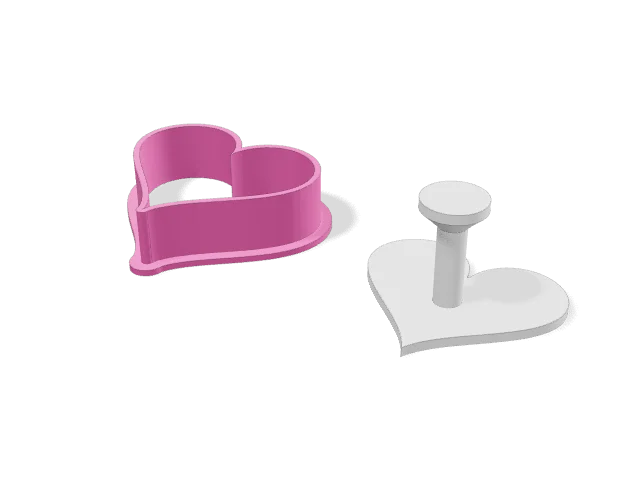
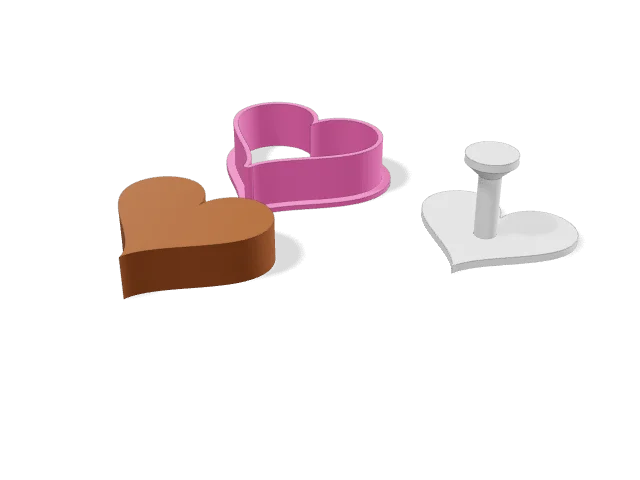
feat: docinho pelo peso mostra o docinho pronto (fantasma) com a marca em relevo na prévia (#220)
Docinho translúcido à frente da forma, na altura do peso e com a marca em relevo no topo, como o êmbolo a deixa (só prévia, fora do arquivo e da medida). A marca do êmbolo passa a usar o mesmo ajuste (fitStamp) da prévia.

Changed region(s): [[0.1875, 0.1875, 0.6562, 0.625], [0.5625, 0.2812, 0.9062, 0.75]]

diff --git a/src/geometry/models/candyMold.ts b/src/geometry/models/candyMold.ts
@@ -2,7 +2,8 @@ import type { CS, ManifoldToplevel } from "../manifold";
 import { medalOutline } from "../medal";
 import { outerOnly, scoped } from "../shape2d";
 import { roundedRect, type ModelCtx, type ModelOutput } from "./common";
-import { buildEjector } from "./brigadeiroEjector";
+import { buildEjector, fitStamp } from "./brigadeiroEjector";
+import { solidMesh } from "./common";
 
 export type CandyShape = "round" | "heart" | "star" | "flower" | "bar" | "art";
 
@@ -20,6 +21,8 @@ export type CandyMoldParams = {
   stampText: string;
   /** "test": a forma de teste de 10 cm³ para pesar e calibrar a densidade. */
   print: "candy" | "test";
+  /** O docinho pronto, translúcido, ao lado na prévia (mostra a marca em relevo; não vai para o arquivo). */
+  showCandy: boolean;
   frameColor: string;
   ejectorColor: string;
 };
@@ -33,10 +36,14 @@ export const DEFAULT_CANDY_MOLD: CandyMoldParams = {
   clearance: 0.4,
   stampText: "",
   print: "candy",
+  showCandy: true,
   frameColor: "#f472b6",
   ejectorColor: "#f8f8f6",
 };
 
+const CANDY_COLOR = "#9a5a2b";
+const CANDY_GAP = 14; // distância do docinho fantasma à forma
+const CANDY_RELIEF = 0.8; // relevo da marca no docinho
 const PLATE_H = 2.5; // a espessura do êmbolo (como no Ejetor de brigadeiro)
 const TEST_CM3 = 10; // volume da forma de teste
 const TEST_DEPTH = 20;
@@ -104,10 +111,21 @@ export function buildCandyMold(ctx: ModelCtx, p: CandyMoldParams): ModelOutput {
       { size: Math.max(w, h), height: depth + PLATE_H, wall: p.wall, clearance: p.clearance, bottom: "flat", frameColor: p.frameColor, ejectorColor: p.ejectorColor },
       { stamp },
     );
+    const models = [...out.models];
+    if (p.showCandy && !test) {
+      // docinho pronto (fantasma), à frente da forma: o formato, a altura e a marca em relevo como o êmbolo deixa
+      const centered = k(scaled.translate([-(b.min[0] + b.max[0]) / 2, -(b.min[1] + b.max[1]) / 2]));
+      const plate = k(centered.offset(-p.clearance, "Round"));
+      const pb = plate.bounds();
+      const mark = stamp && !plate.isEmpty() ? fitStamp(plate, [(pb.min[0] + pb.max[0]) / 2, (pb.min[1] + pb.max[1]) / 2], stamp, false, k) : null;
+      const body = k(centered.extrude(depth));
+      const candy = mark ? k(k(body.add(k(k(mark.extrude(CANDY_RELIEF)).translate([0, 0, depth])))).translate([0, -(h + CANDY_GAP), 0])) : k(body.translate([0, -(h + CANDY_GAP), 0]));
+      models.push({ name: "Docinho (só na prévia)", previewOnly: true, parts: [{ name: "", color: CANDY_COLOR, ghost: true, mesh: solidMesh(candy) }] });
+    }
     const grams = (volume / MM3_PER_CM3) * p.density;
     const info = test
       ? `Forma de teste: cabe ${TEST_CM3} cm³. Encha até a borda, sem apertar, e pese: densidade = gramas ÷ ${TEST_CM3}. Digite o resultado em "Densidade do doce".`
       : `Cavidade de ${br(w)} × ${br(h)} mm e ${br(depth, 0)} mm de altura = ${br(volume / MM3_PER_CM3)} cm³: cabe ${br(grams, 0)} g de doce a ${br(p.density, 2)} g/cm³.`;
-    return { models: out.models, warnings: [info, ...(out.warnings ?? []), ...warnings] };
+    return { models, warnings: [info, ...(out.warnings ?? []), ...warnings] };
   });
 }

diff --git a/src/geometry/models/brigadeiroEjector.ts b/src/geometry/models/brigadeiroEjector.ts
@@ -42,6 +42,19 @@ const STAMP_FRACTION = 0.7; // quanto do êmbolo a marca ocupa
 const STAMP_MARGIN = 1.5; // borda que a marca deixa livre no êmbolo
 const STAMP_DEPTH = 0.8;
 
+/** A marca já ajustada ao êmbolo `plate` (centro `c`): no máximo 70% dele, com margem, sem espelhar. null se não sobra nada. */
+export function fitStamp(plate: CS, c: [number, number], stamp: CS, mirror: boolean, k: <D extends { delete(): void }>(o: D) => D): CS | null {
+  if (stamp.isEmpty()) return null;
+  const room = k(plate.offset(-STAMP_MARGIN, "Round"));
+  if (room.isEmpty()) return null;
+  const rb = room.bounds();
+  const fitted = k(fitInto(stamp, (rb.max[0] - rb.min[0]) * STAMP_FRACTION, (rb.max[1] - rb.min[1]) * STAMP_FRACTION, 0));
+  const placed = k((mirror ? k(fitted.mirror([1, 0])) : fitted).translate([c[0], c[1]]));
+  const mark = placed.intersect(room);
+  return mark.isEmpty() ? (mark.delete(), null) : k(mark);
+}
+
+
 export function buildEjector({ M, art }: ModelCtx, p: EjectorParams, opts: EjectorOptions = {}): ModelOutput {
   const src = requireArt(art);
   return scoped((k) => {
@@ -60,17 +73,9 @@ export function buildEjector({ M, art }: ModelCtx, p: EjectorParams, opts: Eject
     const handle = k(k(M.Manifold.union([stem, flare, knob])).translate([c[0], c[1], PLATE_H]));
     let ejector = k(k(plate.extrude(PLATE_H)).add(handle));
     const warnings: string[] = [];
-    if (opts.stamp && !opts.stamp.isEmpty()) {
-      // marca no rosto do êmbolo (a face que encosta no doce, de z = 0): rebaixo, espelhado para ler certo no doce
-      const room = k(plate.offset(-STAMP_MARGIN, "Round"));
-      if (!room.isEmpty()) {
-        const rb = room.bounds();
-        const fitted = k(fitInto(opts.stamp, (rb.max[0] - rb.min[0]) * STAMP_FRACTION, (rb.max[1] - rb.min[1]) * STAMP_FRACTION, 0));
-        const mirrored = k(k(fitted.mirror([1, 0])).translate([c[0], c[1]]));
-        const mark = k(mirrored.intersect(room));
-        if (!mark.isEmpty()) ejector = k(ejector.subtract(k(mark.extrude(opts.stampDepth ?? STAMP_DEPTH))));
-      }
-    }
+    // marca no rosto do êmbolo (a face que encosta no doce, de z = 0): rebaixo, espelhado para ler certo no doce
+    const mark = opts.stamp ? fitStamp(plate, c, opts.stamp, true, k) : null;
+    if (mark) ejector = k(ejector.subtract(k(mark.extrude(opts.stampDepth ?? STAMP_DEPTH))));
     const bottom = p.bottom ?? "flat";
     if (bottom !== "flat") {
       const face = bottom === "round" ? roundEdge(M, plate, p.radius ?? 3) : dome(M, plate, p.domeHeight ?? 4, p.smooth ?? 0.7);

diff --git a/src/geometry/models/candyMold.test.ts b/src/geometry/models/candyMold.test.ts
@@ -100,4 +100,26 @@ describe("docinho pelo peso: a cavidade tem o volume que o peso pede (#220)", { 
     expect(candy({ weight: 5, depth: 30 }).warnings!.join(" ")).toMatch(/ficou pequena/);
     expect(candy({ weight: 80, depth: 8, density: 0.8 }).warnings!.join(" ")).toMatch(/ficou grande/);
   });
+
+  test("docinho fantasma: translúcido e só na prévia, na altura do docinho, com a marca em relevo no topo; sem marca fica liso", () => {
+    const withMark = candy({ stampText: "Ana" });
+    const ghost = withMark.models.find((m) => m.previewOnly)!;
+    expect(ghost.parts[0].ghost).toBe(true);
+    expect(ghost.parts[0].name).toBe("");
+    const gb = meshBounds([ghost.parts[0].mesh])!;
+    expect(gb.min[2]).toBeCloseTo(0, 2);
+    expect(gb.max[2]).toBeCloseTo(14 + 0.8, 1); // altura do docinho + relevo da marca
+    const smooth = meshBounds([candy().models.find((m) => m.previewOnly)!.parts[0].mesh])!;
+    expect(smooth.max[2]).toBeCloseTo(14, 1);
+    // à frente da forma, sem sobrepor
+    const fb = meshBounds([model(withMark, "Forma").parts[0].mesh])!;
+    expect(gb.max[1]).toBeLessThan(fb.min[1]);
+    // o volume do doce fantasma é o do peso (cavidade cheia)
+    const body = solid(candy().models.find((m) => m.previewOnly)!.parts[0].mesh);
+    expect(body.volume() / ((25 / 1.2) * 1000)).toBeGreaterThan(0.97);
+    body.delete();
+    expect(candy({ showCandy: false }).models.some((m) => m.previewOnly)).toBe(false);
+    expect(candy({ print: "test" }).models.some((m) => m.previewOnly)).toBe(false);
+    expect(withMark.models.filter((m) => !m.previewOnly).map((m) => m.name)).toEqual(["Forma", "Ejetor"]);
+  });
 });

diff --git a/src/tools/models/catalog/kitchen.ts b/src/tools/models/catalog/kitchen.ts
@@ -79,6 +79,7 @@ export const KITCHEN_MODELS: ModelDef[] = [
           num("wall", "Parede", 1.2, 3),
           num("clearance", "Folga do êmbolo", 0.2, 1, { step: 0.05, hint: "0,4 costuma deslizar bem." }),
           text("stampText", "Texto da marca no êmbolo (sem desenho)", 12),
+          bool("showCandy", "Mostrar o docinho pronto na prévia (translúcido, só para ver a marca)"),
           choice("print", "Imprimir", [["candy", "Forma e êmbolo do docinho"], ["test", "Só a forma de teste (10 cm³)"]]),
           color("frameColor", "Forma"),
           color("ejectorColor", "Êmbolo"),
